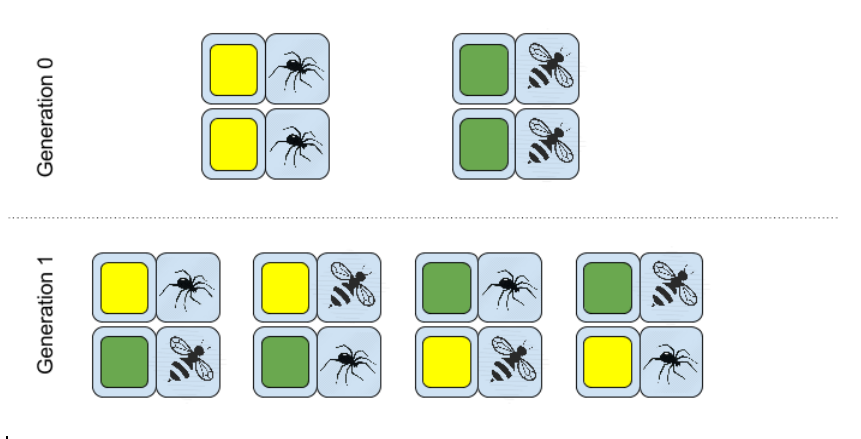
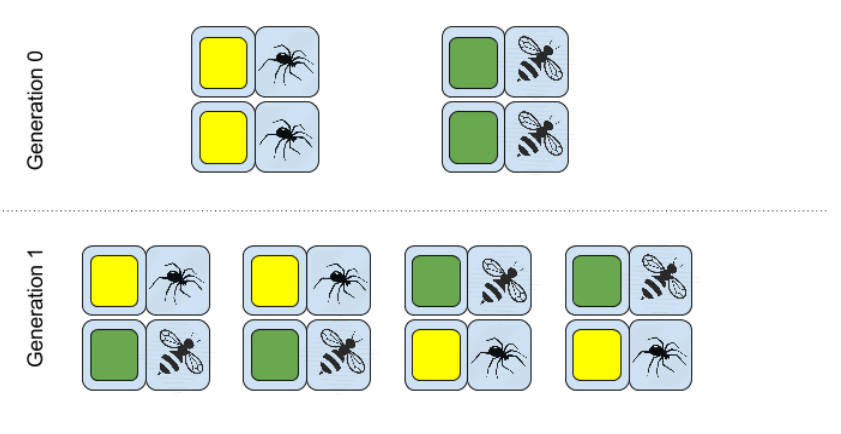
Updates from peer review

diff --git a/_posts/2016-06-06-hybrids.md b/_posts/2016-06-06-hybrids.md
@@ -19,7 +19,7 @@ author:
   first_name: ''
   last_name: ''
 ---
-It turns out the [wheat I ordered]({% post_url 2016-06-06-hybrids %}) is hybridized. I've read all about this now, and it appears that for the greater good my little plot will have to be burned
+It turns out the [wheat I ordered]({% post_url 2016-04-16-planting-wheat %}) is hybridized. I've read all about this now, and it appears that for the greater good my little plot will have to be burned
 and buried under concrete.
 
 <!--more-->
@@ -62,7 +62,11 @@ The actual DNA that goes into the gene slot, like the DNA for "brown eyes", is c
 
 If you're familiar with software, you might think of the gene as an interface and an allele as one of many implementations of that interface.
 
-It gets tricky though, because most living creatures actually keep *several* slots for each gene. Us humans and many plants keep two for each:
+If you follow so far, you now know more about genetics than most people in the world, congratulations!
+
+There's one more concept to include before I can get back to the problem with my devil wheat. When we have children, we say that you get some of your DNA from your mom, and some from your dad. What does that actually mean?
+
+Well, it turns out that every gene actually has two slots for DNA, so for every gene in our cells, we have two alleles! When we humans reproduce, the child will need two alleles to fit into the two eye-color gene slots; you get one from your mom, and one from your dad.
 
 ![Double gene!]({{ site.baseurl }}/public/assets/2016-06/chromosomes.png)
 
@@ -70,13 +74,13 @@ This is where simplifications like "dominant" and "recessive" genes comes from. 
 
 ![Anarchy]({{ site.baseurl }}/public/assets/2016-06/allele.png)
 
-The answer is "it depends". Importantly, it is not usually as simple as one getting used and the other somehow disabled - both alleles may get used.
+The answer is "it depends". Importantly, it is not as simple as one getting "used" and the other somehow disabled - *both* alleles will be "used", or expressed. In the case of eye color, the brown allele might "overpower" the green - but the green allele will still be actively in use.
 
 ## How hybrid devil plants are made
 
 Lets, for the sake of argument, say I'm God. I'm not saying I'm not, or that I am, but that independent of whether I am God or not that we assume I am for the duration of the next paragraph.
 
-I summon into being a cucumber-like plant species named Andy and I decree Andy's genome to consist of two genes; one gene controls Andys color, and the other gene controls Andys resistance to bugs. For each gene, Andy has two slots, so his whole genome looks like this:
+I summon into being a cucumber-like plant species named Andy and I decree that Andy contains two genes; one to control Andys color, and the other to control Andys resistance to bugs. Just like a human, for each gene, Andy has two slots for alleles. All in all, something along these lines:
 
 ![Andy]({{ site.baseurl }}/public/assets/2016-06/Andy-laid-bare.png)
 
@@ -92,7 +96,7 @@ Now, what happens if these two inbred varieties where to breed with each other? 
 
 Since both of Early Birds color alleles are yellow, the offspring will *always* get a yellow allele from Early Bird. Likewise, it will *always* get a green allele from Honest Jake. This means that all the immediate offspring will always have one green and one yellow allele, one from each parent. Likewise, they will always have one allele for spider resistance and one for bee resistance.
 
-Here's one way it could play out, with four new plants in the offspring. Notice that, while they all have genomes that are slightly different, they all have the same general combination; one green and one yellow allele, one bee allele and one spider allele:
+Here's one way it could play out, with four new plants in the offspring. Notice that, while they all have slightly different DNA, they all have the same general combination; one green and one yellow allele, one bee allele and one spider allele:
 
 ![Generation 1]({{ site.baseurl }}/public/assets/2016-06/f1.png)
 
@@ -102,7 +106,7 @@ So all the offspring will all look like Honest Jake green Andys - but they will 
 
 Imagine what happens if there are other alleles that work together to make bigger fruits, handle droughts and so on - a hybrid will potentially have a much more broad set of alleles at its "disposal". This effect, where a hybrid is stronger than an inbred line is called "hybrid vigor", and is the reason most plants we grow today are hybrids.
 
-But lets keep playing the tape - because what happens next is interesting. The seeds from our hybrid generation are supposed to be sterile, right? Engineered by monsanto lawyers to convert your soul to intellectual property? Not so, but something interesting happens:
+But lets keep playing the tape - because what happens next is interesting. The seeds from our hybrid generation are supposed to be sterile, right? Engineered by Monsanto lawyers to convert your soul to intellectual property? Not so, but something interesting happens:
 
 ![Generation 2]({{ site.baseurl }}/public/assets/2016-06/f2.png)
 
